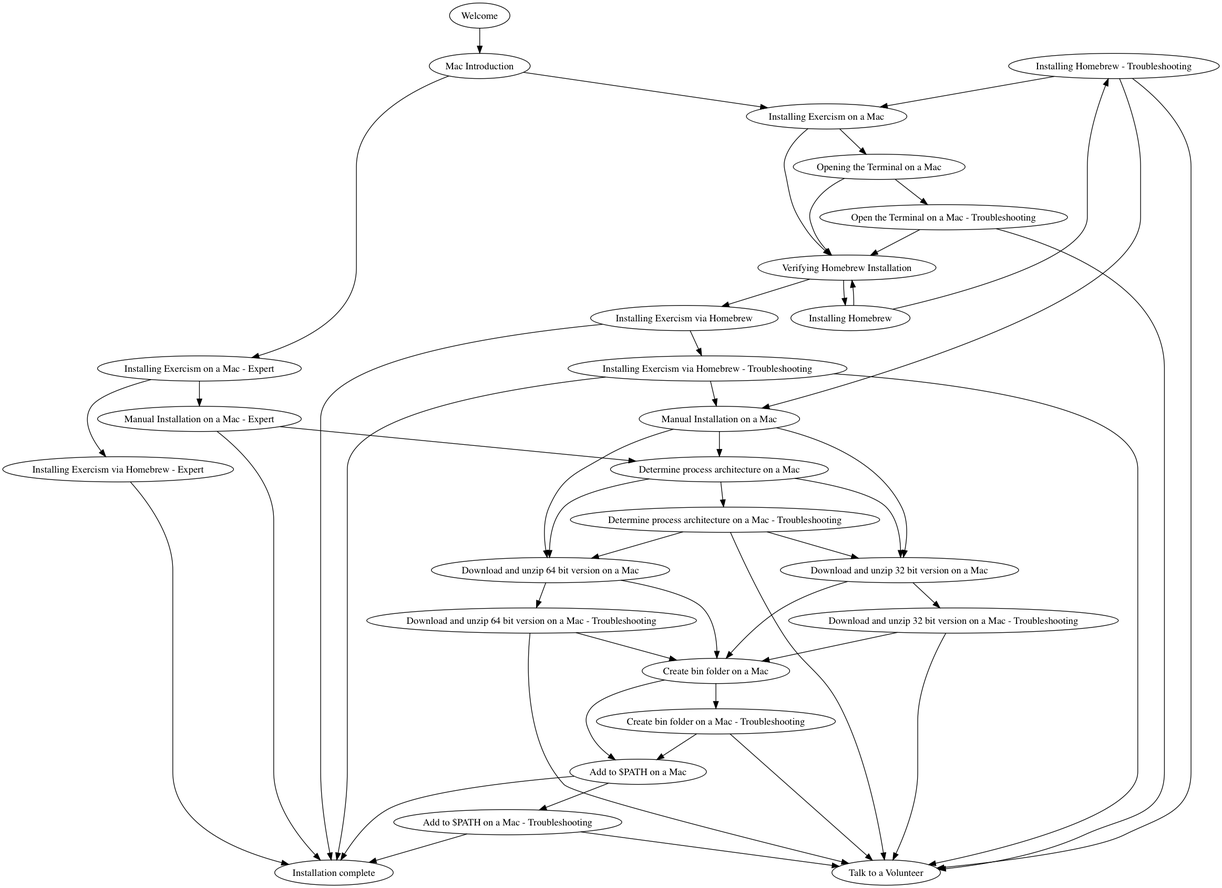
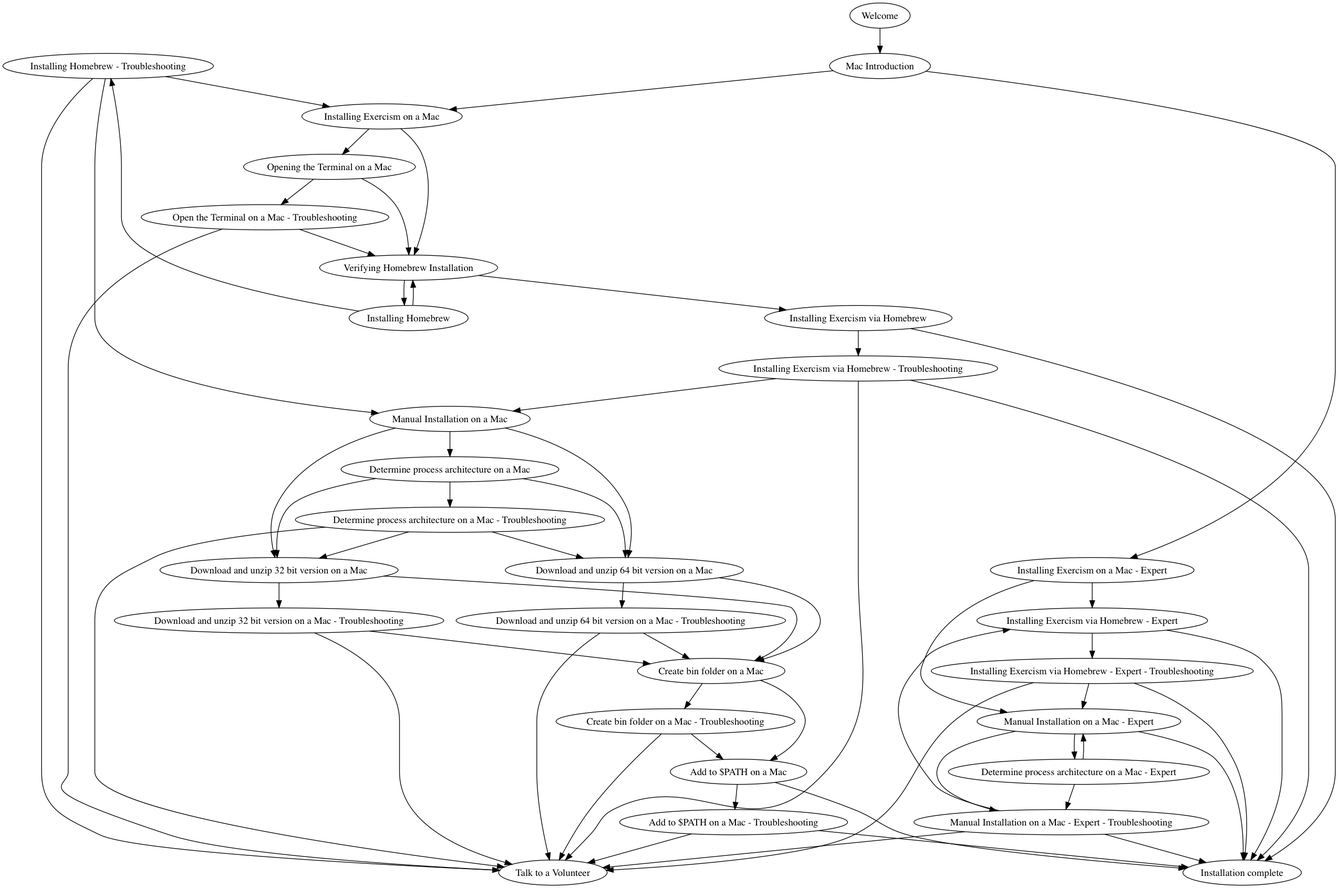
Improve Mac expert flow with troubleshooting and determine architecture

diff --git a/compiled.html b/compiled.html
@@ -376,13 +376,13 @@ Hit `Enter` after you've pasted in the command.
 
 ##### 32-bit process architecture
 
-If you're on a 32-bit process architecture, you're Terminal would reply with this:
+If you're on a 32-bit process architecture, your Terminal would reply with this:
 
 ![32-bit](https://i.imgur.com/RqszxRw.png)
 
 ##### 64-bit process architecture
 
-If you're on a 64-bit process architecture, you're Terminal would reply with this:
+If you're on a 64-bit process architecture, your Terminal would reply with this:
 
 ![64-bit](https://i.imgur.com/ssF6r4f.png)
 
@@ -716,12 +716,42 @@ To install Exercism on a Mac, we first need to open the terminal.
 ## Do you know how to open the terminal?
 
 - [[Yes-&gt;Verifying Homebrew Installation]]
-- [[No-&gt;Opening the Terminal on a Mac]]</tw-passagedata><tw-passagedata pid="24" name="Installing Exercism on a Mac - Expert" tags="" position=""># Installing Exercism on a Mac
+- [[No-&gt;Opening the Terminal on a Mac]]</tw-passagedata><tw-passagedata pid="24" name="Determine process architecture on a Mac - Expert" tags="" position=""># Determine processor architecture on a Mac
+
+To determine your processor architecture, run:
+
+```
+uname -m | if grep -q 64; then echo "64-bit CPU"; else echo "32-bit CPU"; fi
+```
+
+#### Verify
+
+##### 32-bit processor architecture
+
+If you're on a 32-bit processor architecture, your Terminal would reply with this:
+
+![32-bit](https://i.imgur.com/RqszxRw.png)
+
+##### 64-bit processor architecture
+
+If you're on a 64-bit processor architecture, your Terminal would reply with this:
+
+![64-bit](https://i.imgur.com/ssF6r4f.png)
+
+##### Unknown architecture
+
+If your output doesn't match any of the above, click on "I don't know" below and we could recommend steps to help you.
+
+---
+## Do you know your processor architecture?
+
+- [[Yes-&gt;Manual Installation on a Mac - Expert]]
+- [[I don't know-&gt;Manual Installation on a Mac - Expert - Troubleshooting]]</tw-passagedata><tw-passagedata pid="25" name="Installing Exercism on a Mac - Expert" tags="" position=""># Installing Exercism on a Mac
 
 Do you want to use homebrew to install exercism?
 
 - [[Yes-&gt;Installing Exercism via Homebrew - Expert]]
-- [[No-&gt;Manual Installation on a Mac - Expert]]</tw-passagedata><tw-passagedata pid="25" name="Installing Exercism via Homebrew - Expert" tags="" position=""># Installing Exercism via Homebrew
+- [[No-&gt;Manual Installation on a Mac - Expert]]</tw-passagedata><tw-passagedata pid="26" name="Installing Exercism via Homebrew - Expert" tags="" position=""># Installing Exercism via Homebrew
 
 To install Exercism CLI, simply run:
 
@@ -736,9 +766,20 @@ exercism --version
 ```
 
 ---
-Next steps:
+## Have you installed Exercism on your computer?
 
-- [[Continue (Finish)-&gt;Installation complete]]</tw-passagedata><tw-passagedata pid="26" name="Manual Installation on a Mac - Expert" tags="" position=""># Installing Exercism on a Mac manually
+- [[Yes (Finish)-&gt;Installation complete]]
+- [[No-&gt;Installing Exercism via Homebrew - Expert - Troubleshooting]]</tw-passagedata><tw-passagedata pid="27" name="Installing Exercism via Homebrew - Expert - Troubleshooting" tags="" position=""># Installing Exercism via Homebrew - Troubleshooting
+
+Having problems getting Exercism on your computer? A solution to your problem may be present below.
+
+---
+
+## Were you able to install Exercism?
+
+- [[Yes (Finish)-&gt;Installation complete]]
+- [[No-&gt;Talk to a Volunteer]]
+- [[Try another installation method-&gt;Manual Installation on a Mac - Expert]]</tw-passagedata><tw-passagedata pid="28" name="Manual Installation on a Mac - Expert" tags="" position=""># Installing Exercism on a Mac manually
 
 1. Download the appropriate version of exercism based on your process architecture at the [releases page](https://github.com/exercism/cli/releases/latest).
 2. Unzip and put the binary in your path.
@@ -749,12 +790,22 @@ After that, verify that it was installed properly by running:
 exercism --version
 ```
 
-----
+---
+## Have you installed Exercism on your computer?
 
-Next steps:
+- [[Yes (Finish)-&gt;Installation complete]]
+- [[No-&gt;Manual Installation on a Mac - Expert - Troubleshooting]]
+- [[I don't know my processor architecture-&gt;Determine process architecture on a Mac - Expert]]</tw-passagedata><tw-passagedata pid="29" name="Manual Installation on a Mac - Expert - Troubleshooting" tags="" position=""># Installing Exercism on a Mac manually - Troubleshooting
 
-- [[Continue (Finish)-&gt;Installation complete]]
-- [[I don't know my process architecture-&gt;Determine process architecture on a Mac]]</tw-passagedata></tw-storydata>
+Having problems getting Exercism on your computer? A solution to your problem may be present below.
+
+---
+
+## Were you able to install Exercism?
+
+- [[Yes (Finish)-&gt;Installation complete]]
+- [[No-&gt;Talk to a Volunteer]]
+- [[Try another installation method-&gt;Installing Exercism via Homebrew - Expert]]</tw-passagedata></tw-storydata>
 
 <script>(function e(t,n,r){function s(o,u){if(!n[o]){if(!t[o]){var a=typeof require=="function"&&require;if(!u&&a)return a(o,!0);if(i)return i(o,!0);var f=new Error("Cannot find module '"+o+"'");throw f.code="MODULE_NOT_FOUND",f}var l=n[o]={exports:{}};t[o][0].call(l.exports,function(e){var n=t[o][1][e];return s(n?n:e)},l,l.exports,e,t,n,r)}return n[o].exports}var i=typeof require=="function"&&require;for(var o=0;o<r.length;o++)s(r[o]);return s})({1:[function(require,module,exports){
 !function(e,t){"object"==typeof module&&"object"==typeof module.exports?module.exports=e.document?t(e,!0):function(e){if(!e.document)throw new Error("jQuery requires a window with a document");return t(e)}:t(e)}("undefined"!=typeof window?window:this,function(e,t){function n(e){var t=!!e&&"length"in e&&e.length,n=oe.type(e);return"function"===n||oe.isWindow(e)?!1:"array"===n||0===t||"number"==typeof t&&t>0&&t-1 in e}function r(e,t,n){if(oe.isFunction(t))return oe.grep(e,function(e,r){return!!t.call(e,r,e)!==n});if(t.nodeType)return oe.grep(e,function(e){return e===t!==n});if("string"==typeof t){if(ge.test(t))return oe.filter(t,e,n);t=oe.filter(t,e)}return oe.grep(e,function(e){return Z.call(t,e)>-1!==n})}function i(e,t){for(;(e=e[t])&&1!==e.nodeType;);return e}function o(e){var t={};return oe.each(e.match(we)||[],function(e,n){t[n]=!0}),t}function s(){G.removeEventListener("DOMContentLoaded",s),e.removeEventListener("load",s),oe.ready()}function a(){this.expando=oe.expando+a.uid++}function u(e,t,n){var r;if(void 0===n&&1===e.nodeType)if(r="data-"+t.replace(De,"-$&").toLowerCase(),n=e.getAttribute(r),"string"==typeof n){try{n="true"===n?!0:"false"===n?!1:"null"===n?null:+n+""===n?+n:Se.test(n)?oe.parseJSON(n):n}catch(i){}Ne.set(e,t,n)}else n=void 0;return n}function l(e,t,n,r){var i,o=1,s=20,a=r?function(){return r.cur()}:function(){return oe.css(e,t,"")},u=a(),l=n&&n[3]||(oe.cssNumber[t]?"":"px"),c=(oe.cssNumber[t]||"px"!==l&&+u)&&Ae.exec(oe.css(e,t));if(c&&c[3]!==l){l=l||c[3],n=n||[],c=+u||1;do o=o||".5",c/=o,oe.style(e,t,c+l);while(o!==(o=a()/u)&&1!==o&&--s)}return n&&(c=+c||+u||0,i=n[1]?c+(n[1]+1)*n[2]:+n[2],r&&(r.unit=l,r.start=c,r.end=i)),i}function c(e,t){var n="undefined"!=typeof e.getElementsByTagName?e.getElementsByTagName(t||"*"):"undefined"!=typeof e.querySelectorAll?e.querySelectorAll(t||"*"):[];return void 0===t||t&&oe.nodeName(e,t)?oe.merge([e],n):n}function f(e,t){for(var n=0,r=e.length;r>n;n++)Ee.set(e[n],"globalEval",!t||Ee.get(t[n],"globalEval"))}function p(e,t,n,r,i){for(var o,s,a,u,l,p,d=t.createDocumentFragment(),h=[],g=0,m=e.length;m>g;g++)if(o=e[g],o||0===o)if("object"===oe.type(o))oe.merge(h,o.nodeType?[o]:o);else if(Re.test(o)){for(s=s||d.appendChild(t.createElement("div")),a=(Oe.exec(o)||["",""])[1].toLowerCase(),u=Pe[a]||Pe._default,s.innerHTML=u[1]+oe.htmlPrefilter(o)+u[2],p=u[0];p--;)s=s.lastChild;oe.merge(h,s.childNodes),s=d.firstChild,s.textContent=""}else h.push(t.createTextNode(o));for(d.textContent="",g=0;o=h[g++];)if(r&&oe.inArray(o,r)>-1)i&&i.push(o);else if(l=oe.contains(o.ownerDocument,o),s=c(d.appendChild(o),"script"),l&&f(s),n)for(p=0;o=s[p++];)Fe.test(o.type||"")&&n.push(o);return d}function d(){return!0}function h(){return!1}function g(){try{return G.activeElement}catch(e){}}function m(e,t,n,r,i,o){var s,a;if("object"==typeof t){"string"!=typeof n&&(r=r||n,n=void 0);for(a in t)m(e,a,n,r,t[a],o);return e}if(null==r&&null==i?(i=n,r=n=void 0):null==i&&("string"==typeof n?(i=r,r=void 0):(i=r,r=n,n=void 0)),i===!1)i=h;else if(!i)return this;return 1===o&&(s=i,i=function(e){return oe().off(e),s.apply(this,arguments)},i.guid=s.guid||(s.guid=oe.guid++)),e.each(function(){oe.event.add(this,t,i,r,n)})}function v(e,t){return oe.nodeName(e,"table")&&oe.nodeName(11!==t.nodeType?t:t.firstChild,"tr")?e.getElementsByTagName("tbody")[0]||e:e}function y(e){return e.type=(null!==e.getAttribute("type"))+"/"+e.type,e}function x(e){var t=Xe.exec(e.type);return t?e.type=t[1]:e.removeAttribute("type"),e}function b(e,t){var n,r,i,o,s,a,u,l;if(1===t.nodeType){if(Ee.hasData(e)&&(o=Ee.access(e),s=Ee.set(t,o),l=o.events)){delete s.handle,s.events={};for(i in l)for(n=0,r=l[i].length;r>n;n++)oe.event.add(t,i,l[i][n])}Ne.hasData(e)&&(a=Ne.access(e),u=oe.extend({},a),Ne.set(t,u))}}function w(e,t){var n=t.nodeName.toLowerCase();"input"===n&&He.test(e.type)?t.checked=e.checked:("input"===n||"textarea"===n)&&(t.defaultValue=e.defaultValue)}function T(e,t,n,r){t=J.apply([],t);var i,o,s,a,u,l,f=0,d=e.length,h=d-1,g=t[0],m=oe.isFunction(g);if(m||d>1&&"string"==typeof g&&!re.checkClone&&_e.test(g))return e.each(function(i){var o=e.eq(i);m&&(t[0]=g.call(this,i,o.html())),T(o,t,n,r)});if(d&&(i=p(t,e[0].ownerDocument,!1,e,r),o=i.firstChild,1===i.childNodes.length&&(i=o),o||r)){for(s=oe.map(c(i,"script"),y),a=s.length;d>f;f++)u=i,f!==h&&(u=oe.clone(u,!0,!0),a&&oe.merge(s,c(u,"script"))),n.call(e[f],u,f);if(a)for(l=s[s.length-1].ownerDocument,oe.map(s,x),f=0;a>f;f++)u=s[f],Fe.test(u.type||"")&&!Ee.access(u,"globalEval")&&oe.contains(l,u)&&(u.src?oe._evalUrl&&oe._evalUrl(u.src):oe.globalEval(u.textContent.replace(ze,"")))}return e}function C(e,t,n){for(var r,i=t?oe.filter(t,e):e,o=0;null!=(r=i[o]);o++)n||1!==r.nodeType||oe.cleanData(c(r)),r.parentNode&&(n&&oe.contains(r.ownerDocument,r)&&f(c(r,"script")),r.parentNode.removeChild(r));return e}function k(e,t){var n=oe(t.createElement(e)).appendTo(t.body),r=oe.css(n[0],"display");return n.detach(),r}function E(e){var t=G,n=Ve[e];return n||(n=k(e,t),"none"!==n&&n||(Ue=(Ue||oe("<iframe frameborder='0' width='0' height='0'/>")).appendTo(t.documentElement),t=Ue[0].contentDocument,t.write(),t.close(),n=k(e,t),Ue.detach()),Ve[e]=n),n}function N(e,t,n){var r,i,o,s,a=e.style;return n=n||Qe(e),n&&(s=n.getPropertyValue(t)||n[t],""!==s||oe.contains(e.ownerDocument,e)||(s=oe.style(e,t)),!re.pixelMarginRight()&&Ge.test(s)&&Ye.test(t)&&(r=a.width,i=a.minWidth,o=a.maxWidth,a.minWidth=a.maxWidth=a.width=s,s=n.width,a.width=r,a.minWidth=i,a.maxWidth=o)),void 0!==s?s+"":s}function S(e,t){return{get:function(){return e()?void delete this.get:(this.get=t).apply(this,arguments)}}}function D(e){if(e in rt)return e;for(var t=e[0].toUpperCase()+e.slice(1),n=nt.length;n--;)if(e=nt[n]+t,e in rt)return e}function j(e,t,n){var r=Ae.exec(t);return r?Math.max(0,r[2]-(n||0))+(r[3]||"px"):t}function A(e,t,n,r,i){for(var o=n===(r?"border":"content")?4:"width"===t?1:0,s=0;4>o;o+=2)"margin"===n&&(s+=oe.css(e,n+Le[o],!0,i)),r?("content"===n&&(s-=oe.css(e,"padding"+Le[o],!0,i)),"margin"!==n&&(s-=oe.css(e,"border"+Le[o]+"Width",!0,i))):(s+=oe.css(e,"padding"+Le[o],!0,i),"padding"!==n&&(s+=oe.css(e,"border"+Le[o]+"Width",!0,i)));return s}function L(t,n,r){var i=!0,o="width"===n?t.offsetWidth:t.offsetHeight,s=Qe(t),a="border-box"===oe.css(t,"boxSizing",!1,s);if(G.msFullscreenElement&&e.top!==e&&t.getClientRects().length&&(o=Math.round(100*t.getBoundingClientRect()[n])),0>=o||null==o){if(o=N(t,n,s),(0>o||null==o)&&(o=t.style[n]),Ge.test(o))return o;i=a&&(re.boxSizingReliable()||o===t.style[n]),o=parseFloat(o)||0}return o+A(t,n,r||(a?"border":"content"),i,s)+"px"}function q(e,t){for(var n,r,i,o=[],s=0,a=e.length;a>s;s++)r=e[s],r.style&&(o[s]=Ee.get(r,"olddisplay"),n=r.style.display,t?(o[s]||"none"!==n||(r.style.display=""),""===r.style.display&&qe(r)&&(o[s]=Ee.access(r,"olddisplay",E(r.nodeName)))):(i=qe(r),"none"===n&&i||Ee.set(r,"olddisplay",i?n:oe.css(r,"display"))));for(s=0;a>s;s++)r=e[s],r.style&&(t&&"none"!==r.style.display&&""!==r.style.display||(r.style.display=t?o[s]||"":"none"));return e}function H(e,t,n,r,i){return new H.prototype.init(e,t,n,r,i)}function O(){return e.setTimeout(function(){it=void 0}),it=oe.now()}function F(e,t){var n,r=0,i={height:e};for(t=t?1:0;4>r;r+=2-t)n=Le[r],i["margin"+n]=i["padding"+n]=e;return t&&(i.opacity=i.width=e),i}function P(e,t,n){for(var r,i=(W.tweeners[t]||[]).concat(W.tweeners["*"]),o=0,s=i.length;s>o;o++)if(r=i[o].call(n,t,e))return r}function R(e,t,n){var r,i,o,s,a,u,l,c,f=this,p={},d=e.style,h=e.nodeType&&qe(e),g=Ee.get(e,"fxshow");n.queue||(a=oe._queueHooks(e,"fx"),null==a.unqueued&&(a.unqueued=0,u=a.empty.fire,a.empty.fire=function(){a.unqueued||u()}),a.unqueued++,f.always(function(){f.always(function(){a.unqueued--,oe.queue(e,"fx").length||a.empty.fire()})})),1===e.nodeType&&("height"in t||"width"in t)&&(n.overflow=[d.overflow,d.overflowX,d.overflowY],l=oe.css(e,"display"),c="none"===l?Ee.get(e,"olddisplay")||E(e.nodeName):l,"inline"===c&&"none"===oe.css(e,"float")&&(d.display="inline-block")),n.overflow&&(d.overflow="hidden",f.always(function(){d.overflow=n.overflow[0],d.overflowX=n.overflow[1],d.overflowY=n.overflow[2]}));for(r in t)if(i=t[r],st.exec(i)){if(delete t[r],o=o||"toggle"===i,i===(h?"hide":"show")){if("show"!==i||!g||void 0===g[r])continue;h=!0}p[r]=g&&g[r]||oe.style(e,r)}else l=void 0;if(oe.isEmptyObject(p))"inline"===("none"===l?E(e.nodeName):l)&&(d.display=l);else{g?"hidden"in g&&(h=g.hidden):g=Ee.access(e,"fxshow",{}),o&&(g.hidden=!h),h?oe(e).show():f.done(function(){oe(e).hide()}),f.done(function(){var t;Ee.remove(e,"fxshow");for(t in p)oe.style(e,t,p[t])});for(r in p)s=P(h?g[r]:0,r,f),r in g||(g[r]=s.start,h&&(s.end=s.start,s.start="width"===r||"height"===r?1:0))}}function M(e,t){var n,r,i,o,s;for(n in e)if(r=oe.camelCase(n),i=t[r],o=e[n],oe.isArray(o)&&(i=o[1],o=e[n]=o[0]),n!==r&&(e[r]=o,delete e[n]),s=oe.cssHooks[r],s&&"expand"in s){o=s.expand(o),delete e[r];for(n in o)n in e||(e[n]=o[n],t[n]=i)}else t[r]=i}function W(e,t,n){var r,i,o=0,s=W.prefilters.length,a=oe.Deferred().always(function(){delete u.elem}),u=function(){if(i)return!1;for(var t=it||O(),n=Math.max(0,l.startTime+l.duration-t),r=n/l.duration||0,o=1-r,s=0,u=l.tweens.length;u>s;s++)l.tweens[s].run(o);return a.notifyWith(e,[l,o,n]),1>o&&u?n:(a.resolveWith(e,[l]),!1)},l=a.promise({elem:e,props:oe.extend({},t),opts:oe.extend(!0,{specialEasing:{},easing:oe.easing._default},n),originalProperties:t,originalOptions:n,startTime:it||O(),duration:n.duration,tweens:[],createTween:function(t,n){var r=oe.Tween(e,l.opts,t,n,l.opts.specialEasing[t]||l.opts.easing);return l.tweens.push(r),r},stop:function(t){var n=0,r=t?l.tweens.length:0;if(i)return this;for(i=!0;r>n;n++)l.tweens[n].run(1);return t?(a.notifyWith(e,[l,1,0]),a.resolveWith(e,[l,t])):a.rejectWith(e,[l,t]),this}}),c=l.props;for(M(c,l.opts.specialEasing);s>o;o++)if(r=W.prefilters[o].call(l,e,c,l.opts))return oe.isFunction(r.stop)&&(oe._queueHooks(l.elem,l.opts.queue).stop=oe.proxy(r.stop,r)),r;return oe.map(c,P,l),oe.isFunction(l.opts.start)&&l.opts.start.call(e,l),oe.fx.timer(oe.extend(u,{elem:e,anim:l,queue:l.opts.queue})),l.progress(l.opts.progress).done(l.opts.done,l.opts.complete).fail(l.opts.fail).always(l.opts.always)}function I(e){return e.getAttribute&&e.getAttribute("class")||""}function $(e){return function(t,n){"string"!=typeof t&&(n=t,t="*");var r,i=0,o=t.toLowerCase().match(we)||[];if(oe.isFunction(n))for(;r=o[i++];)"+"===r[0]?(r=r.slice(1)||"*",(e[r]=e[r]||[]).unshift(n)):(e[r]=e[r]||[]).push(n)}}function B(e,t,n,r){function i(a){var u;return o[a]=!0,oe.each(e[a]||[],function(e,a){var l=a(t,n,r);return"string"!=typeof l||s||o[l]?s?!(u=l):void 0:(t.dataTypes.unshift(l),i(l),!1)}),u}var o={},s=e===Et;return i(t.dataTypes[0])||!o["*"]&&i("*")}function _(e,t){var n,r,i=oe.ajaxSettings.flatOptions||{};for(n in t)void 0!==t[n]&&((i[n]?e:r||(r={}))[n]=t[n]);return r&&oe.extend(!0,e,r),e}function X(e,t,n){for(var r,i,o,s,a=e.contents,u=e.dataTypes;"*"===u[0];)u.shift(),void 0===r&&(r=e.mimeType||t.getResponseHeader("Content-Type"));if(r)for(i in a)if(a[i]&&a[i].test(r)){u.unshift(i);break}if(u[0]in n)o=u[0];else{for(i in n){if(!u[0]||e.converters[i+" "+u[0]]){o=i;break}s||(s=i)}o=o||s}return o?(o!==u[0]&&u.unshift(o),n[o]):void 0}function z(e,t,n,r){var i,o,s,a,u,l={},c=e.dataTypes.slice();if(c[1])for(s in e.converters)l[s.toLowerCase()]=e.converters[s];for(o=c.shift();o;)if(e.responseFields[o]&&(n[e.responseFields[o]]=t),!u&&r&&e.dataFilter&&(t=e.dataFilter(t,e.dataType)),u=o,o=c.shift())if("*"===o)o=u;else if("*"!==u&&u!==o){if(s=l[u+" "+o]||l["* "+o],!s)for(i in l)if(a=i.split(" "),a[1]===o&&(s=l[u+" "+a[0]]||l["* "+a[0]])){s===!0?s=l[i]:l[i]!==!0&&(o=a[0],c.unshift(a[1]));break}if(s!==!0)if(s&&e["throws"])t=s(t);else try{t=s(t)}catch(f){return{state:"parsererror",error:s?f:"No conversion from "+u+" to "+o}}}return{state:"success",data:t}}function U(e,t,n,r){var i;if(oe.isArray(t))oe.each(t,function(t,i){n||jt.test(e)?r(e,i):U(e+"["+("object"==typeof i&&null!=i?t:"")+"]",i,n,r)});else if(n||"object"!==oe.type(t))r(e,t);else for(i in t)U(e+"["+i+"]",t[i],n,r)}function V(e){return oe.isWindow(e)?e:9===e.nodeType&&e.defaultView}var Y=[],G=e.document,Q=Y.slice,J=Y.concat,K=Y.push,Z=Y.indexOf,ee={},te=ee.toString,ne=ee.hasOwnProperty,re={},ie="2.2.0",oe=function(e,t){return new oe.fn.init(e,t)},se=/^[\s\uFEFF\xA0]+|[\s\uFEFF\xA0]+$/g,ae=/^-ms-/,ue=/-([\da-z])/gi,le=function(e,t){return t.toUpperCase()};oe.fn=oe.prototype={jquery:ie,constructor:oe,selector:"",length:0,toArray:function(){return Q.call(this)},get:function(e){return null!=e?0>e?this[e+this.length]:this[e]:Q.call(this)},pushStack:function(e){var t=oe.merge(this.constructor(),e);return t.prevObject=this,t.context=this.context,t},each:function(e){return oe.each(this,e)},map:function(e){return this.pushStack(oe.map(this,function(t,n){return e.call(t,n,t)}))},slice:function(){return this.pushStack(Q.apply(this,arguments))},first:function(){return this.eq(0)},last:function(){return this.eq(-1)},eq:function(e){var t=this.length,n=+e+(0>e?t:0);return this.pushStack(n>=0&&t>n?[this[n]]:[])},end:function(){return this.prevObject||this.constructor()},push:K,sort:Y.sort,splice:Y.splice},oe.extend=oe.fn.extend=function(){var e,t,n,r,i,o,s=arguments[0]||{},a=1,u=arguments.length,l=!1;for("boolean"==typeof s&&(l=s,s=arguments[a]||{},a++),"object"==typeof s||oe.isFunction(s)||(s={}),a===u&&(s=this,a--);u>a;a++)if(null!=(e=arguments[a]))for(t in e)n=s[t],r=e[t],s!==r&&(l&&r&&(oe.isPlainObject(r)||(i=oe.isArray(r)))?(i?(i=!1,o=n&&oe.isArray(n)?n:[]):o=n&&oe.isPlainObject(n)?n:{},s[t]=oe.extend(l,o,r)):void 0!==r&&(s[t]=r));return s},oe.extend({expando:"jQuery"+(ie+Math.random()).replace(/\D/g,""),isReady:!0,error:function(e){throw new Error(e)},noop:function(){},isFunction:function(e){return"function"===oe.type(e)},isArray:Array.isArray,isWindow:function(e){return null!=e&&e===e.window},isNumeric:function(e){var t=e&&e.toString();return!oe.isArray(e)&&t-parseFloat(t)+1>=0},isPlainObject:function(e){return"object"!==oe.type(e)||e.nodeType||oe.isWindow(e)?!1:e.constructor&&!ne.call(e.constructor.prototype,"isPrototypeOf")?!1:!0},isEmptyObject:function(e){var t;for(t in e)return!1;return!0},type:function(e){return null==e?e+"":"object"==typeof e||"function"==typeof e?ee[te.call(e)]||"object":typeof e},globalEval:function(e){var t,n=eval;e=oe.trim(e),e&&(1===e.indexOf("use strict")?(t=G.createElement("script"),t.text=e,G.head.appendChild(t).parentNode.removeChild(t)):n(e))},camelCase:function(e){return e.replace(ae,"ms-").replace(ue,le)},nodeName:function(e,t){return e.nodeName&&e.nodeName.toLowerCase()===t.toLowerCase()},each:function(e,t){var r,i=0;if(n(e))for(r=e.length;r>i&&t.call(e[i],i,e[i])!==!1;i++);else for(i in e)if(t.call(e[i],i,e[i])===!1)break;return e},trim:function(e){return null==e?"":(e+"").replace(se,"")},makeArray:function(e,t){var r=t||[];return null!=e&&(n(Object(e))?oe.merge(r,"string"==typeof e?[e]:e):K.call(r,e)),r},inArray:function(e,t,n){return null==t?-1:Z.call(t,e,n)},merge:function(e,t){for(var n=+t.length,r=0,i=e.length;n>r;r++)e[i++]=t[r];return e.length=i,e},grep:function(e,t,n){for(var r,i=[],o=0,s=e.length,a=!n;s>o;o++)r=!t(e[o],o),r!==a&&i.push(e[o]);return i},map:function(e,t,r){var i,o,s=0,a=[];if(n(e))for(i=e.length;i>s;s++)o=t(e[s],s,r),null!=o&&a.push(o);else for(s in e)o=t(e[s],s,r),null!=o&&a.push(o);return J.apply([],a)},guid:1,proxy:function(e,t){var n,r,i;return"string"==typeof t&&(n=e[t],t=e,e=n),oe.isFunction(e)?(r=Q.call(arguments,2),i=function(){return e.apply(t||this,r.concat(Q.call(arguments)))},i.guid=e.guid=e.guid||oe.guid++,i):void 0},now:Date.now,support:re}),"function"==typeof Symbol&&(oe.fn[Symbol.iterator]=Y[Symbol.iterator]),oe.each("Boolean Number String Function Array Date RegExp Object Error Symbol".split(" "),function(e,t){ee["[object "+t+"]"]=t.toLowerCase()});var ce=function(e){function t(e,t,n,r){var i,o,s,a,u,l,f,d,h=t&&t.ownerDocument,g=t?t.nodeType:9;if(n=n||[],"string"!=typeof e||!e||1!==g&&9!==g&&11!==g)return n;if(!r&&((t?t.ownerDocument||t:I)!==q&&L(t),t=t||q,O)){if(11!==g&&(l=ve.exec(e)))if(i=l[1]){if(9===g){if(!(s=t.getElementById(i)))return n;if(s.id===i)return n.push(s),n}else if(h&&(s=h.getElementById(i))&&M(t,s)&&s.id===i)return n.push(s),n}else{if(l[2])return K.apply(n,t.getElementsByTagName(e)),n;if((i=l[3])&&w.getElementsByClassName&&t.getElementsByClassName)return K.apply(n,t.getElementsByClassName(i)),n}if(w.qsa&&!z[e+" "]&&(!F||!F.test(e))){if(1!==g)h=t,d=e;else if("object"!==t.nodeName.toLowerCase()){for((a=t.getAttribute("id"))?a=a.replace(xe,"\\$&"):t.setAttribute("id",a=W),f=E(e),o=f.length,u=pe.test(a)?"#"+a:"[id='"+a+"']";o--;)f[o]=u+" "+p(f[o]);d=f.join(","),h=ye.test(e)&&c(t.parentNode)||t}if(d)try{return K.apply(n,h.querySelectorAll(d)),n}catch(m){}finally{a===W&&t.removeAttribute("id")}}}return S(e.replace(ae,"$1"),t,n,r)}function n(){function e(n,r){return t.push(n+" ")>T.cacheLength&&delete e[t.shift()],e[n+" "]=r}var t=[];return e}function r(e){return e[W]=!0,e}function i(e){var t=q.createElement("div");try{return!!e(t)}catch(n){return!1}finally{t.parentNode&&t.parentNode.removeChild(t),t=null}}function o(e,t){for(var n=e.split("|"),r=n.length;r--;)T.attrHandle[n[r]]=t}function s(e,t){var n=t&&e,r=n&&1===e.nodeType&&1===t.nodeType&&(~t.sourceIndex||V)-(~e.sourceIndex||V);if(r)return r;if(n)for(;n=n.nextSibling;)if(n===t)return-1;return e?1:-1}function a(e){return function(t){var n=t.nodeName.toLowerCase();return"input"===n&&t.type===e}}function u(e){return function(t){var n=t.nodeName.toLowerCase();return("input"===n||"button"===n)&&t.type===e}}function l(e){return r(function(t){return t=+t,r(function(n,r){for(var i,o=e([],n.length,t),s=o.length;s--;)n[i=o[s]]&&(n[i]=!(r[i]=n[i]))})})}function c(e){return e&&"undefined"!=typeof e.getElementsByTagName&&e}function f(){}function p(e){for(var t=0,n=e.length,r="";n>t;t++)r+=e[t].value;return r}function d(e,t,n){var r=t.dir,i=n&&"parentNode"===r,o=B++;return t.first?function(t,n,o){for(;t=t[r];)if(1===t.nodeType||i)return e(t,n,o)}:function(t,n,s){var a,u,l,c=[$,o];if(s){for(;t=t[r];)if((1===t.nodeType||i)&&e(t,n,s))return!0}else for(;t=t[r];)if(1===t.nodeType||i){if(l=t[W]||(t[W]={}),u=l[t.uniqueID]||(l[t.uniqueID]={}),(a=u[r])&&a[0]===$&&a[1]===o)return c[2]=a[2];if(u[r]=c,c[2]=e(t,n,s))return!0}}}function h(e){return e.length>1?function(t,n,r){for(var i=e.length;i--;)if(!e[i](t,n,r))return!1;return!0}:e[0]}function g(e,n,r){for(var i=0,o=n.length;o>i;i++)t(e,n[i],r);return r}function m(e,t,n,r,i){for(var o,s=[],a=0,u=e.length,l=null!=t;u>a;a++)(o=e[a])&&(!n||n(o,r,i))&&(s.push(o),l&&t.push(a));return s}function v(e,t,n,i,o,s){return i&&!i[W]&&(i=v(i)),o&&!o[W]&&(o=v(o,s)),r(function(r,s,a,u){var l,c,f,p=[],d=[],h=s.length,v=r||g(t||"*",a.nodeType?[a]:a,[]),y=!e||!r&&t?v:m(v,p,e,a,u),x=n?o||(r?e:h||i)?[]:s:y;if(n&&n(y,x,a,u),i)for(l=m(x,d),i(l,[],a,u),c=l.length;c--;)(f=l[c])&&(x[d[c]]=!(y[d[c]]=f));if(r){if(o||e){if(o){for(l=[],c=x.length;c--;)(f=x[c])&&l.push(y[c]=f);o(null,x=[],l,u)}for(c=x.length;c--;)(f=x[c])&&(l=o?ee(r,f):p[c])>-1&&(r[l]=!(s[l]=f))}}else x=m(x===s?x.splice(h,x.length):x),o?o(null,s,x,u):K.apply(s,x)})}function y(e){for(var t,n,r,i=e.length,o=T.relative[e[0].type],s=o||T.relative[" "],a=o?1:0,u=d(function(e){return e===t},s,!0),l=d(function(e){return ee(t,e)>-1},s,!0),c=[function(e,n,r){var i=!o&&(r||n!==D)||((t=n).nodeType?u(e,n,r):l(e,n,r));return t=null,i}];i>a;a++)if(n=T.relative[e[a].type])c=[d(h(c),n)];else{if(n=T.filter[e[a].type].apply(null,e[a].matches),n[W]){for(r=++a;i>r&&!T.relative[e[r].type];r++);return v(a>1&&h(c),a>1&&p(e.slice(0,a-1).concat({value:" "===e[a-2].type?"*":""})).replace(ae,"$1"),n,r>a&&y(e.slice(a,r)),i>r&&y(e=e.slice(r)),i>r&&p(e))}c.push(n)}return h(c)}function x(e,n){var i=n.length>0,o=e.length>0,s=function(r,s,a,u,l){var c,f,p,d=0,h="0",g=r&&[],v=[],y=D,x=r||o&&T.find.TAG("*",l),b=$+=null==y?1:Math.random()||.1,w=x.length;for(l&&(D=s===q||s||l);h!==w&&null!=(c=x[h]);h++){if(o&&c){for(f=0,s||c.ownerDocument===q||(L(c),a=!O);p=e[f++];)if(p(c,s||q,a)){u.push(c);break}l&&($=b)}i&&((c=!p&&c)&&d--,r&&g.push(c))}if(d+=h,i&&h!==d){for(f=0;p=n[f++];)p(g,v,s,a);if(r){if(d>0)for(;h--;)g[h]||v[h]||(v[h]=Q.call(u));v=m(v)}K.apply(u,v),l&&!r&&v.length>0&&d+n.length>1&&t.uniqueSort(u)}return l&&($=b,D=y),g};return i?r(s):s}var b,w,T,C,k,E,N,S,D,j,A,L,q,H,O,F,P,R,M,W="sizzle"+1*new Date,I=e.document,$=0,B=0,_=n(),X=n(),z=n(),U=function(e,t){return e===t&&(A=!0),0},V=1<<31,Y={}.hasOwnProperty,G=[],Q=G.pop,J=G.push,K=G.push,Z=G.slice,ee=function(e,t){for(var n=0,r=e.length;r>n;n++)if(e[n]===t)return n;return-1},te="checked|selected|async|autofocus|autoplay|controls|defer|disabled|hidden|ismap|loop|multiple|open|readonly|required|scoped",ne="[\\x20\\t\\r\\n\\f]",re="(?:\\\\.|[\\w-]|[^\\x00-\\xa0])+",ie="\\["+ne+"*("+re+")(?:"+ne+"*([*^$|!~]?=)"+ne+"*(?:'((?:\\\\.|[^\\\\'])*)'|\"((?:\\\\.|[^\\\\\"])*)\"|("+re+"))|)"+ne+"*\\]",oe=":("+re+")(?:\\((('((?:\\\\.|[^\\\\'])*)'|\"((?:\\\\.|[^\\\\\"])*)\")|((?:\\\\.|[^\\\\()[\\]]|"+ie+")*)|.*)\\)|)",se=new RegExp(ne+"+","g"),ae=new RegExp("^"+ne+"+|((?:^|[^\\\\])(?:\\\\.)*)"+ne+"+$","g"),ue=new RegExp("^"+ne+"*,"+ne+"*"),le=new RegExp("^"+ne+"*([>+~]|"+ne+")"+ne+"*"),ce=new RegExp("="+ne+"*([^\\]'\"]*?)"+ne+"*\\]","g"),fe=new RegExp(oe),pe=new RegExp("^"+re+"$"),de={ID:new RegExp("^#("+re+")"),CLASS:new RegExp("^\\.("+re+")"),TAG:new RegExp("^("+re+"|[*])"),ATTR:new RegExp("^"+ie),PSEUDO:new RegExp("^"+oe),CHILD:new RegExp("^:(only|first|last|nth|nth-last)-(child|of-type)(?:\\("+ne+"*(even|odd|(([+-]|)(\\d*)n|)"+ne+"*(?:([+-]|)"+ne+"*(\\d+)|))"+ne+"*\\)|)","i"),bool:new RegExp("^(?:"+te+")$","i"),needsContext:new RegExp("^"+ne+"*[>+~]|:(even|odd|eq|gt|lt|nth|first|last)(?:\\("+ne+"*((?:-\\d)?\\d*)"+ne+"*\\)|)(?=[^-]|$)","i")},he=/^(?:input|select|textarea|button)$/i,ge=/^h\d$/i,me=/^[^{]+\{\s*\[native \w/,ve=/^(?:#([\w-]+)|(\w+)|\.([\w-]+))$/,ye=/[+~]/,xe=/'|\\/g,be=new RegExp("\\\\([\\da-f]{1,6}"+ne+"?|("+ne+")|.)","ig"),we=function(e,t,n){var r="0x"+t-65536;return r!==r||n?t:0>r?String.fromCharCode(r+65536):String.fromCharCode(r>>10|55296,1023&r|56320)},Te=function(){L()};try{K.apply(G=Z.call(I.childNodes),I.childNodes),G[I.childNodes.length].nodeType}catch(Ce){K={apply:G.length?function(e,t){J.apply(e,Z.call(t))}:function(e,t){for(var n=e.length,r=0;e[n++]=t[r++];);e.length=n-1}}}w=t.support={},k=t.isXML=function(e){var t=e&&(e.ownerDocument||e).documentElement;return t?"HTML"!==t.nodeName:!1},L=t.setDocument=function(e){var t,n,r=e?e.ownerDocument||e:I;return r!==q&&9===r.nodeType&&r.documentElement?(q=r,H=q.documentElement,O=!k(q),(n=q.defaultView)&&n.top!==n&&(n.addEventListener?n.addEventListener("unload",Te,!1):n.attachEvent&&n.attachEvent("onunload",Te)),w.attributes=i(function(e){return e.className="i",!e.getAttribute("className")}),w.getElementsByTagName=i(function(e){return e.appendChild(q.createComment("")),!e.getElementsByTagName("*").length}),w.getElementsByClassName=me.test(q.getElementsByClassName),w.getById=i(function(e){return H.appendChild(e).id=W,!q.getElementsByName||!q.getElementsByName(W).length}),w.getById?(T.find.ID=function(e,t){if("undefined"!=typeof t.getElementById&&O){var n=t.getElementById(e);return n?[n]:[]}},T.filter.ID=function(e){var t=e.replace(be,we);return function(e){return e.getAttribute("id")===t}}):(delete T.find.ID,T.filter.ID=function(e){var t=e.replace(be,we);return function(e){var n="undefined"!=typeof e.getAttributeNode&&e.getAttributeNode("id");return n&&n.value===t}}),T.find.TAG=w.getElementsByTagName?function(e,t){return"undefined"!=typeof t.getElementsByTagName?t.getElementsByTagName(e):w.qsa?t.querySelectorAll(e):void 0}:function(e,t){var n,r=[],i=0,o=t.getElementsByTagName(e);if("*"===e){for(;n=o[i++];)1===n.nodeType&&r.push(n);return r}return o},T.find.CLASS=w.getElementsByClassName&&function(e,t){return"undefined"!=typeof t.getElementsByClassName&&O?t.getElementsByClassName(e):void 0},P=[],F=[],(w.qsa=me.test(q.querySelectorAll))&&(i(function(e){H.appendChild(e).innerHTML="<a id='"+W+"'></a><select id='"+W+"-\r\\' msallowcapture=''><option selected=''></option></select>",e.querySelectorAll("[msallowcapture^='']").length&&F.push("[*^$]="+ne+"*(?:''|\"\")"),e.querySelectorAll("[selected]").length||F.push("\\["+ne+"*(?:value|"+te+")"),e.querySelectorAll("[id~="+W+"-]").length||F.push("~="),e.querySelectorAll(":checked").length||F.push(":checked"),e.querySelectorAll("a#"+W+"+*").length||F.push(".#.+[+~]")}),i(function(e){var t=q.createElement("input");t.setAttribute("type","hidden"),e.appendChild(t).setAttribute("name","D"),e.querySelectorAll("[name=d]").length&&F.push("name"+ne+"*[*^$|!~]?="),e.querySelectorAll(":enabled").length||F.push(":enabled",":disabled"),e.querySelectorAll("*,:x"),F.push(",.*:")})),(w.matchesSelector=me.test(R=H.matches||H.webkitMatchesSelector||H.mozMatchesSelector||H.oMatchesSelector||H.msMatchesSelector))&&i(function(e){w.disconnectedMatch=R.call(e,"div"),R.call(e,"[s!='']:x"),P.push("!=",oe)}),F=F.length&&new RegExp(F.join("|")),P=P.length&&new RegExp(P.join("|")),t=me.test(H.compareDocumentPosition),M=t||me.test(H.contains)?function(e,t){var n=9===e.nodeType?e.documentElement:e,r=t&&t.parentNode;return e===r||!(!r||1!==r.nodeType||!(n.contains?n.contains(r):e.compareDocumentPosition&&16&e.compareDocumentPosition(r)))}:function(e,t){if(t)for(;t=t.parentNode;)if(t===e)return!0;return!1},U=t?function(e,t){if(e===t)return A=!0,0;var n=!e.compareDocumentPosition-!t.compareDocumentPosition;return n?n:(n=(e.ownerDocument||e)===(t.ownerDocument||t)?e.compareDocumentPosition(t):1,1&n||!w.sortDetached&&t.compareDocumentPosition(e)===n?e===q||e.ownerDocument===I&&M(I,e)?-1:t===q||t.ownerDocument===I&&M(I,t)?1:j?ee(j,e)-ee(j,t):0:4&n?-1:1)}:function(e,t){if(e===t)return A=!0,0;var n,r=0,i=e.parentNode,o=t.parentNode,a=[e],u=[t];if(!i||!o)return e===q?-1:t===q?1:i?-1:o?1:j?ee(j,e)-ee(j,t):0;if(i===o)return s(e,t);for(n=e;n=n.parentNode;)a.unshift(n);for(n=t;n=n.parentNode;)u.unshift(n);for(;a[r]===u[r];)r++;return r?s(a[r],u[r]):a[r]===I?-1:u[r]===I?1:0},q):q},t.matches=function(e,n){return t(e,null,null,n)},t.matchesSelector=function(e,n){if((e.ownerDocument||e)!==q&&L(e),n=n.replace(ce,"='$1']"),w.matchesSelector&&O&&!z[n+" "]&&(!P||!P.test(n))&&(!F||!F.test(n)))try{var r=R.call(e,n);if(r||w.disconnectedMatch||e.document&&11!==e.document.nodeType)return r}catch(i){}return t(n,q,null,[e]).length>0},t.contains=function(e,t){return(e.ownerDocument||e)!==q&&L(e),M(e,t)},t.attr=function(e,t){(e.ownerDocument||e)!==q&&L(e);var n=T.attrHandle[t.toLowerCase()],r=n&&Y.call(T.attrHandle,t.toLowerCase())?n(e,t,!O):void 0;return void 0!==r?r:w.attributes||!O?e.getAttribute(t):(r=e.getAttributeNode(t))&&r.specified?r.value:null},t.error=function(e){throw new Error("Syntax error, unrecognized expression: "+e)},t.uniqueSort=function(e){var t,n=[],r=0,i=0;if(A=!w.detectDuplicates,j=!w.sortStable&&e.slice(0),e.sort(U),A){for(;t=e[i++];)t===e[i]&&(r=n.push(i));for(;r--;)e.splice(n[r],1)}return j=null,e},C=t.getText=function(e){var t,n="",r=0,i=e.nodeType;if(i){if(1===i||9===i||11===i){if("string"==typeof e.textContent)return e.textContent;for(e=e.firstChild;e;e=e.nextSibling)n+=C(e)}else if(3===i||4===i)return e.nodeValue}else for(;t=e[r++];)n+=C(t);return n},T=t.selectors={cacheLength:50,createPseudo:r,match:de,attrHandle:{},find:{},relative:{">":{dir:"parentNode",first:!0}," ":{dir:"parentNode"},"+":{dir:"previousSibling",first:!0},"~":{dir:"previousSibling"}},preFilter:{ATTR:function(e){return e[1]=e[1].replace(be,we),e[3]=(e[3]||e[4]||e[5]||"").replace(be,we),"~="===e[2]&&(e[3]=" "+e[3]+" "),e.slice(0,4)},CHILD:function(e){return e[1]=e[1].toLowerCase(),"nth"===e[1].slice(0,3)?(e[3]||t.error(e[0]),e[4]=+(e[4]?e[5]+(e[6]||1):2*("even"===e[3]||"odd"===e[3])),e[5]=+(e[7]+e[8]||"odd"===e[3])):e[3]&&t.error(e[0]),e},PSEUDO:function(e){var t,n=!e[6]&&e[2];return de.CHILD.test(e[0])?null:(e[3]?e[2]=e[4]||e[5]||"":n&&fe.test(n)&&(t=E(n,!0))&&(t=n.indexOf(")",n.length-t)-n.length)&&(e[0]=e[0].slice(0,t),e[2]=n.slice(0,t)),e.slice(0,3))}},filter:{TAG:function(e){var t=e.replace(be,we).toLowerCase();return"*"===e?function(){return!0}:function(e){return e.nodeName&&e.nodeName.toLowerCase()===t}},CLASS:function(e){var t=_[e+" "];return t||(t=new RegExp("(^|"+ne+")"+e+"("+ne+"|$)"))&&_(e,function(e){return t.test("string"==typeof e.className&&e.className||"undefined"!=typeof e.getAttribute&&e.getAttribute("class")||"")})},ATTR:function(e,n,r){return function(i){var o=t.attr(i,e);return null==o?"!="===n:n?(o+="","="===n?o===r:"!="===n?o!==r:"^="===n?r&&0===o.indexOf(r):"*="===n?r&&o.indexOf(r)>-1:"$="===n?r&&o.slice(-r.length)===r:"~="===n?(" "+o.replace(se," ")+" ").indexOf(r)>-1:"|="===n?o===r||o.slice(0,r.length+1)===r+"-":!1):!0}},CHILD:function(e,t,n,r,i){var o="nth"!==e.slice(0,3),s="last"!==e.slice(-4),a="of-type"===t;return 1===r&&0===i?function(e){return!!e.parentNode}:function(t,n,u){var l,c,f,p,d,h,g=o!==s?"nextSibling":"previousSibling",m=t.parentNode,v=a&&t.nodeName.toLowerCase(),y=!u&&!a,x=!1;if(m){if(o){for(;g;){for(p=t;p=p[g];)if(a?p.nodeName.toLowerCase()===v:1===p.nodeType)return!1;h=g="only"===e&&!h&&"nextSibling"}return!0}if(h=[s?m.firstChild:m.lastChild],s&&y){for(p=m,f=p[W]||(p[W]={}),c=f[p.uniqueID]||(f[p.uniqueID]={}),l=c[e]||[],d=l[0]===$&&l[1],x=d&&l[2],p=d&&m.childNodes[d];p=++d&&p&&p[g]||(x=d=0)||h.pop();)if(1===p.nodeType&&++x&&p===t){c[e]=[$,d,x];break}}else if(y&&(p=t,f=p[W]||(p[W]={}),c=f[p.uniqueID]||(f[p.uniqueID]={}),l=c[e]||[],d=l[0]===$&&l[1],x=d),x===!1)for(;(p=++d&&p&&p[g]||(x=d=0)||h.pop())&&((a?p.nodeName.toLowerCase()!==v:1!==p.nodeType)||!++x||(y&&(f=p[W]||(p[W]={}),c=f[p.uniqueID]||(f[p.uniqueID]={}),c[e]=[$,x]),p!==t)););return x-=i,x===r||x%r===0&&x/r>=0}}},PSEUDO:function(e,n){var i,o=T.pseudos[e]||T.setFilters[e.toLowerCase()]||t.error("unsupported pseudo: "+e);return o[W]?o(n):o.length>1?(i=[e,e,"",n],T.setFilters.hasOwnProperty(e.toLowerCase())?r(function(e,t){for(var r,i=o(e,n),s=i.length;s--;)r=ee(e,i[s]),e[r]=!(t[r]=i[s])}):function(e){return o(e,0,i)}):o}},pseudos:{not:r(function(e){var t=[],n=[],i=N(e.replace(ae,"$1"));return i[W]?r(function(e,t,n,r){for(var o,s=i(e,null,r,[]),a=e.length;a--;)(o=s[a])&&(e[a]=!(t[a]=o))}):function(e,r,o){return t[0]=e,i(t,null,o,n),t[0]=null,!n.pop()}}),has:r(function(e){return function(n){return t(e,n).length>0}}),contains:r(function(e){return e=e.replace(be,we),function(t){return(t.textContent||t.innerText||C(t)).indexOf(e)>-1}}),lang:r(function(e){return pe.test(e||"")||t.error("unsupported lang: "+e),e=e.replace(be,we).toLowerCase(),function(t){var n;do if(n=O?t.lang:t.getAttribute("xml:lang")||t.getAttribute("lang"))return n=n.toLowerCase(),n===e||0===n.indexOf(e+"-");while((t=t.parentNode)&&1===t.nodeType);return!1}}),target:function(t){var n=e.location&&e.location.hash;return n&&n.slice(1)===t.id},root:function(e){return e===H},focus:function(e){return e===q.activeElement&&(!q.hasFocus||q.hasFocus())&&!!(e.type||e.href||~e.tabIndex)},enabled:function(e){return e.disabled===!1},disabled:function(e){return e.disabled===!0},checked:function(e){var t=e.nodeName.toLowerCase();return"input"===t&&!!e.checked||"option"===t&&!!e.selected},selected:function(e){return e.parentNode&&e.parentNode.selectedIndex,e.selected===!0},empty:function(e){for(e=e.firstChild;e;e=e.nextSibling)if(e.nodeType<6)return!1;return!0},parent:function(e){return!T.pseudos.empty(e)},header:function(e){return ge.test(e.nodeName)},input:function(e){return he.test(e.nodeName)},button:function(e){var t=e.nodeName.toLowerCase();return"input"===t&&"button"===e.type||"button"===t},text:function(e){var t;return"input"===e.nodeName.toLowerCase()&&"text"===e.type&&(null==(t=e.getAttribute("type"))||"text"===t.toLowerCase())},first:l(function(){return[0]}),last:l(function(e,t){return[t-1]}),eq:l(function(e,t,n){return[0>n?n+t:n]}),even:l(function(e,t){for(var n=0;t>n;n+=2)e.push(n);return e}),odd:l(function(e,t){for(var n=1;t>n;n+=2)e.push(n);return e;
